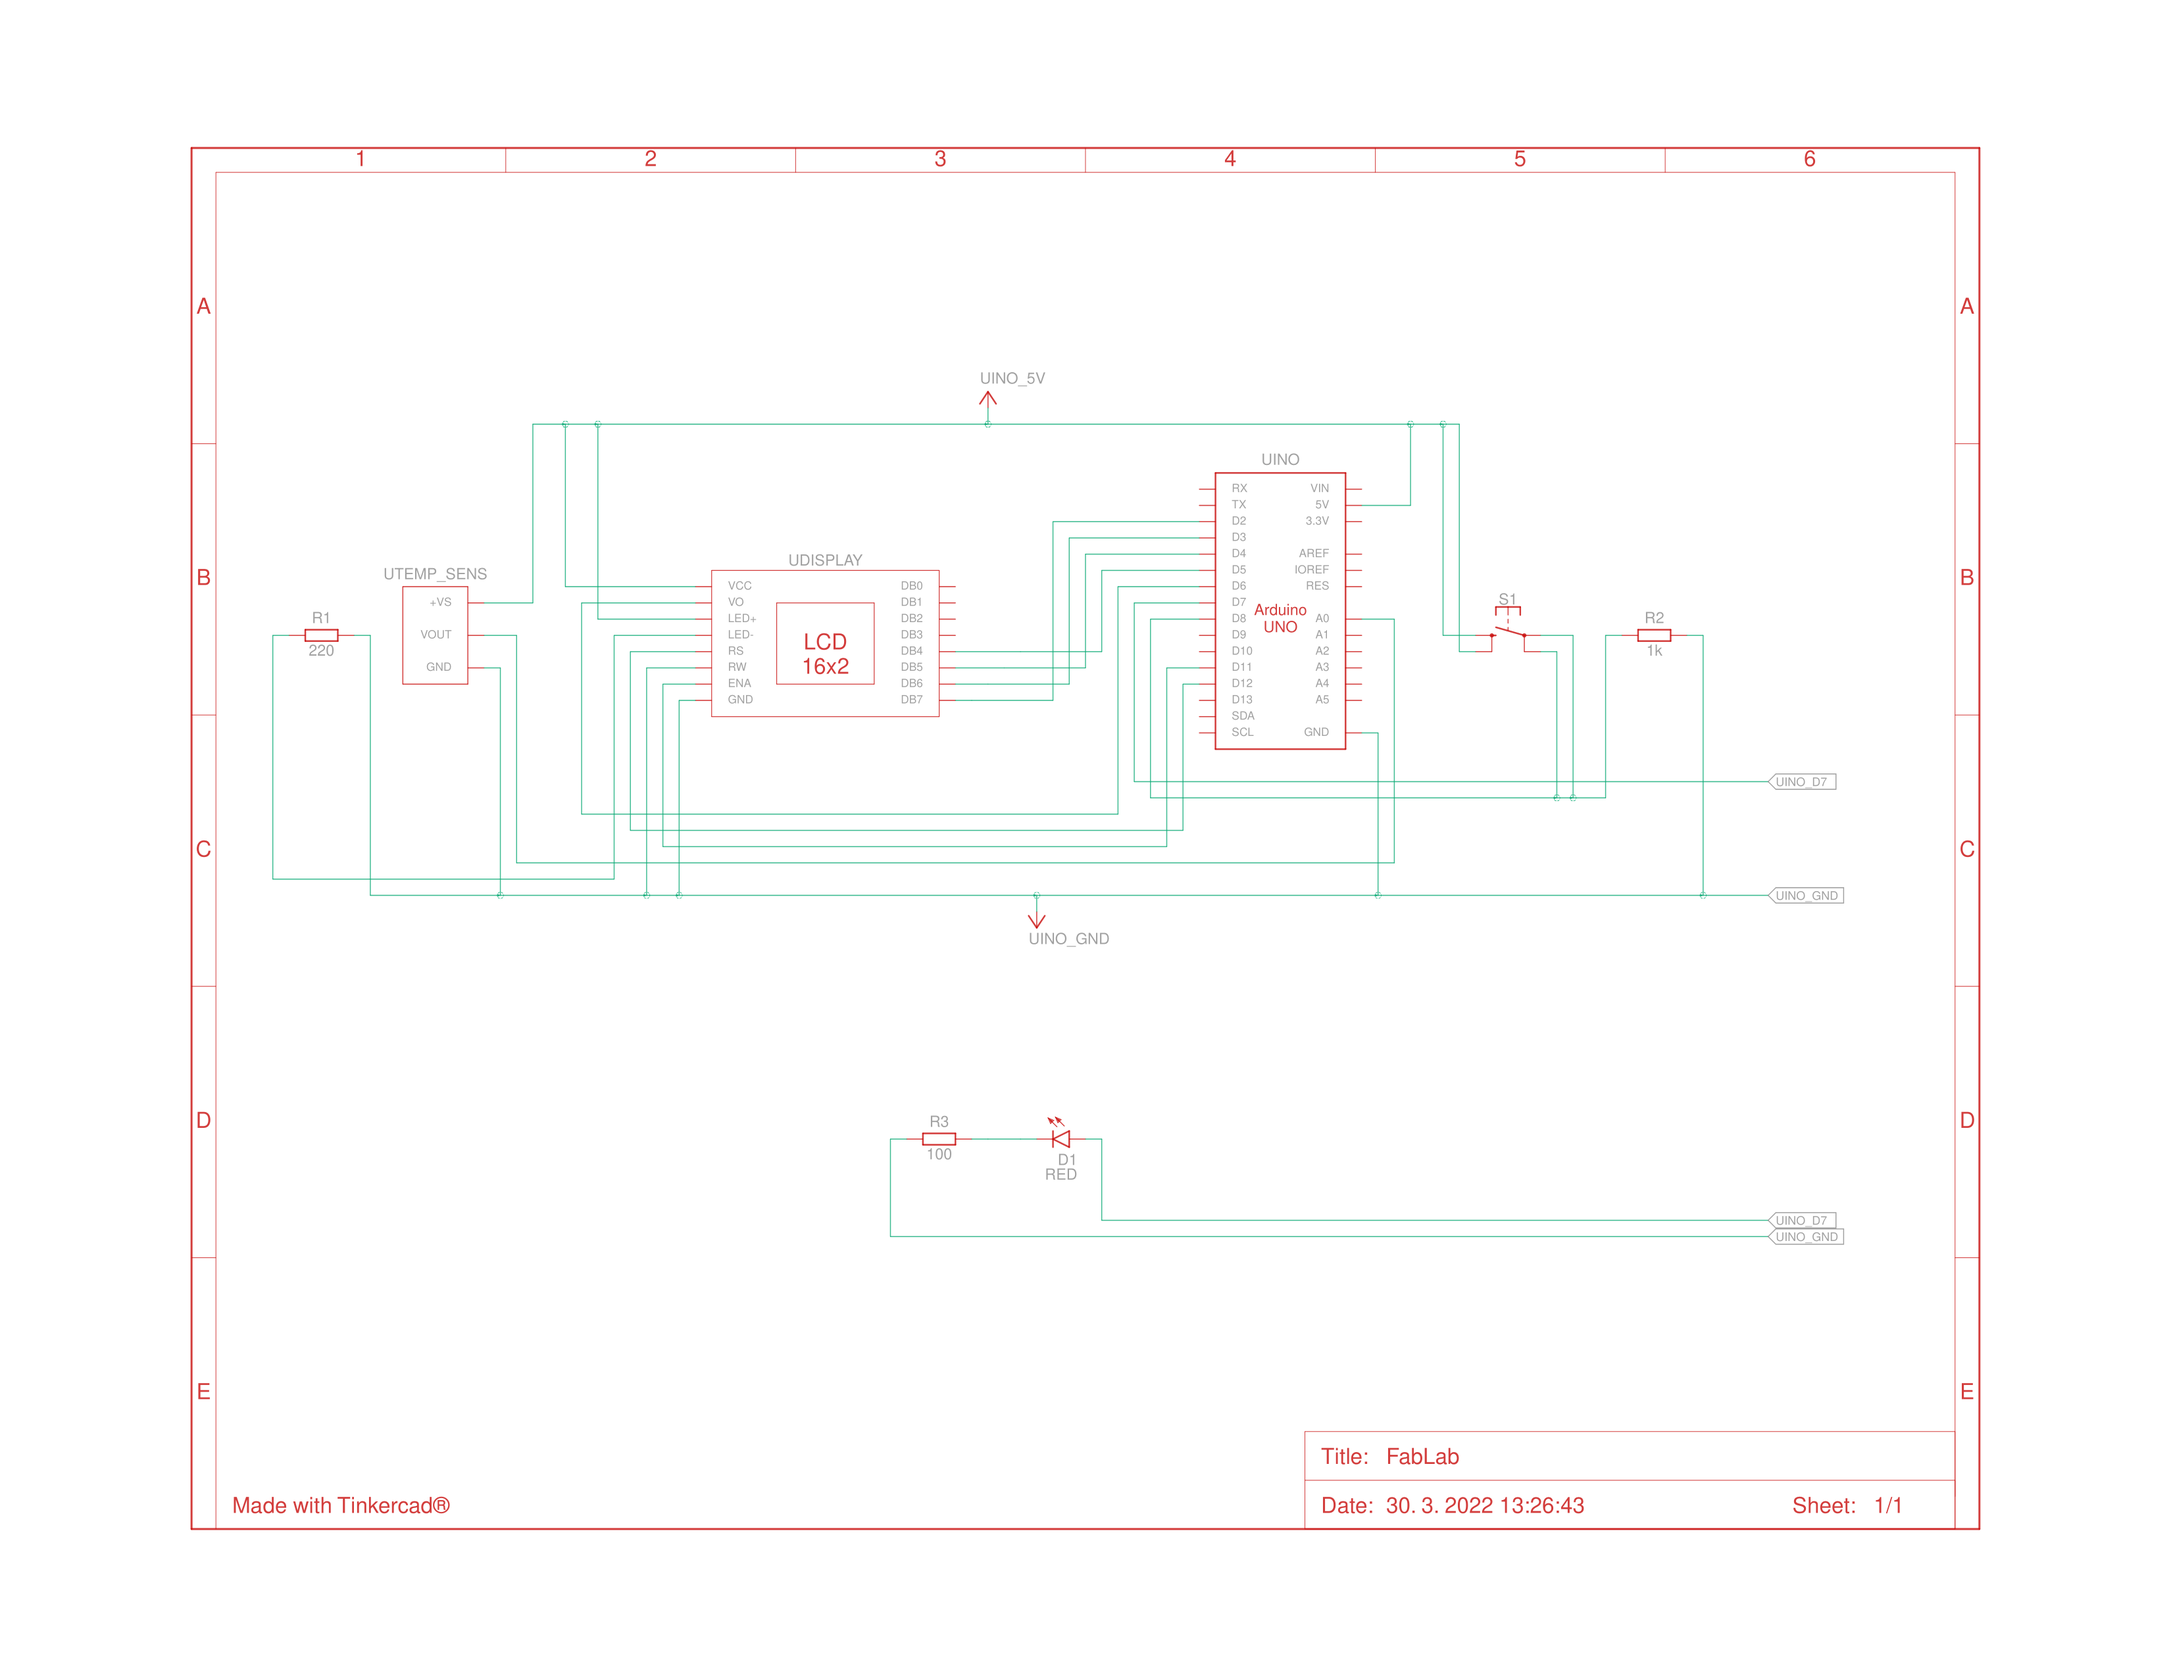
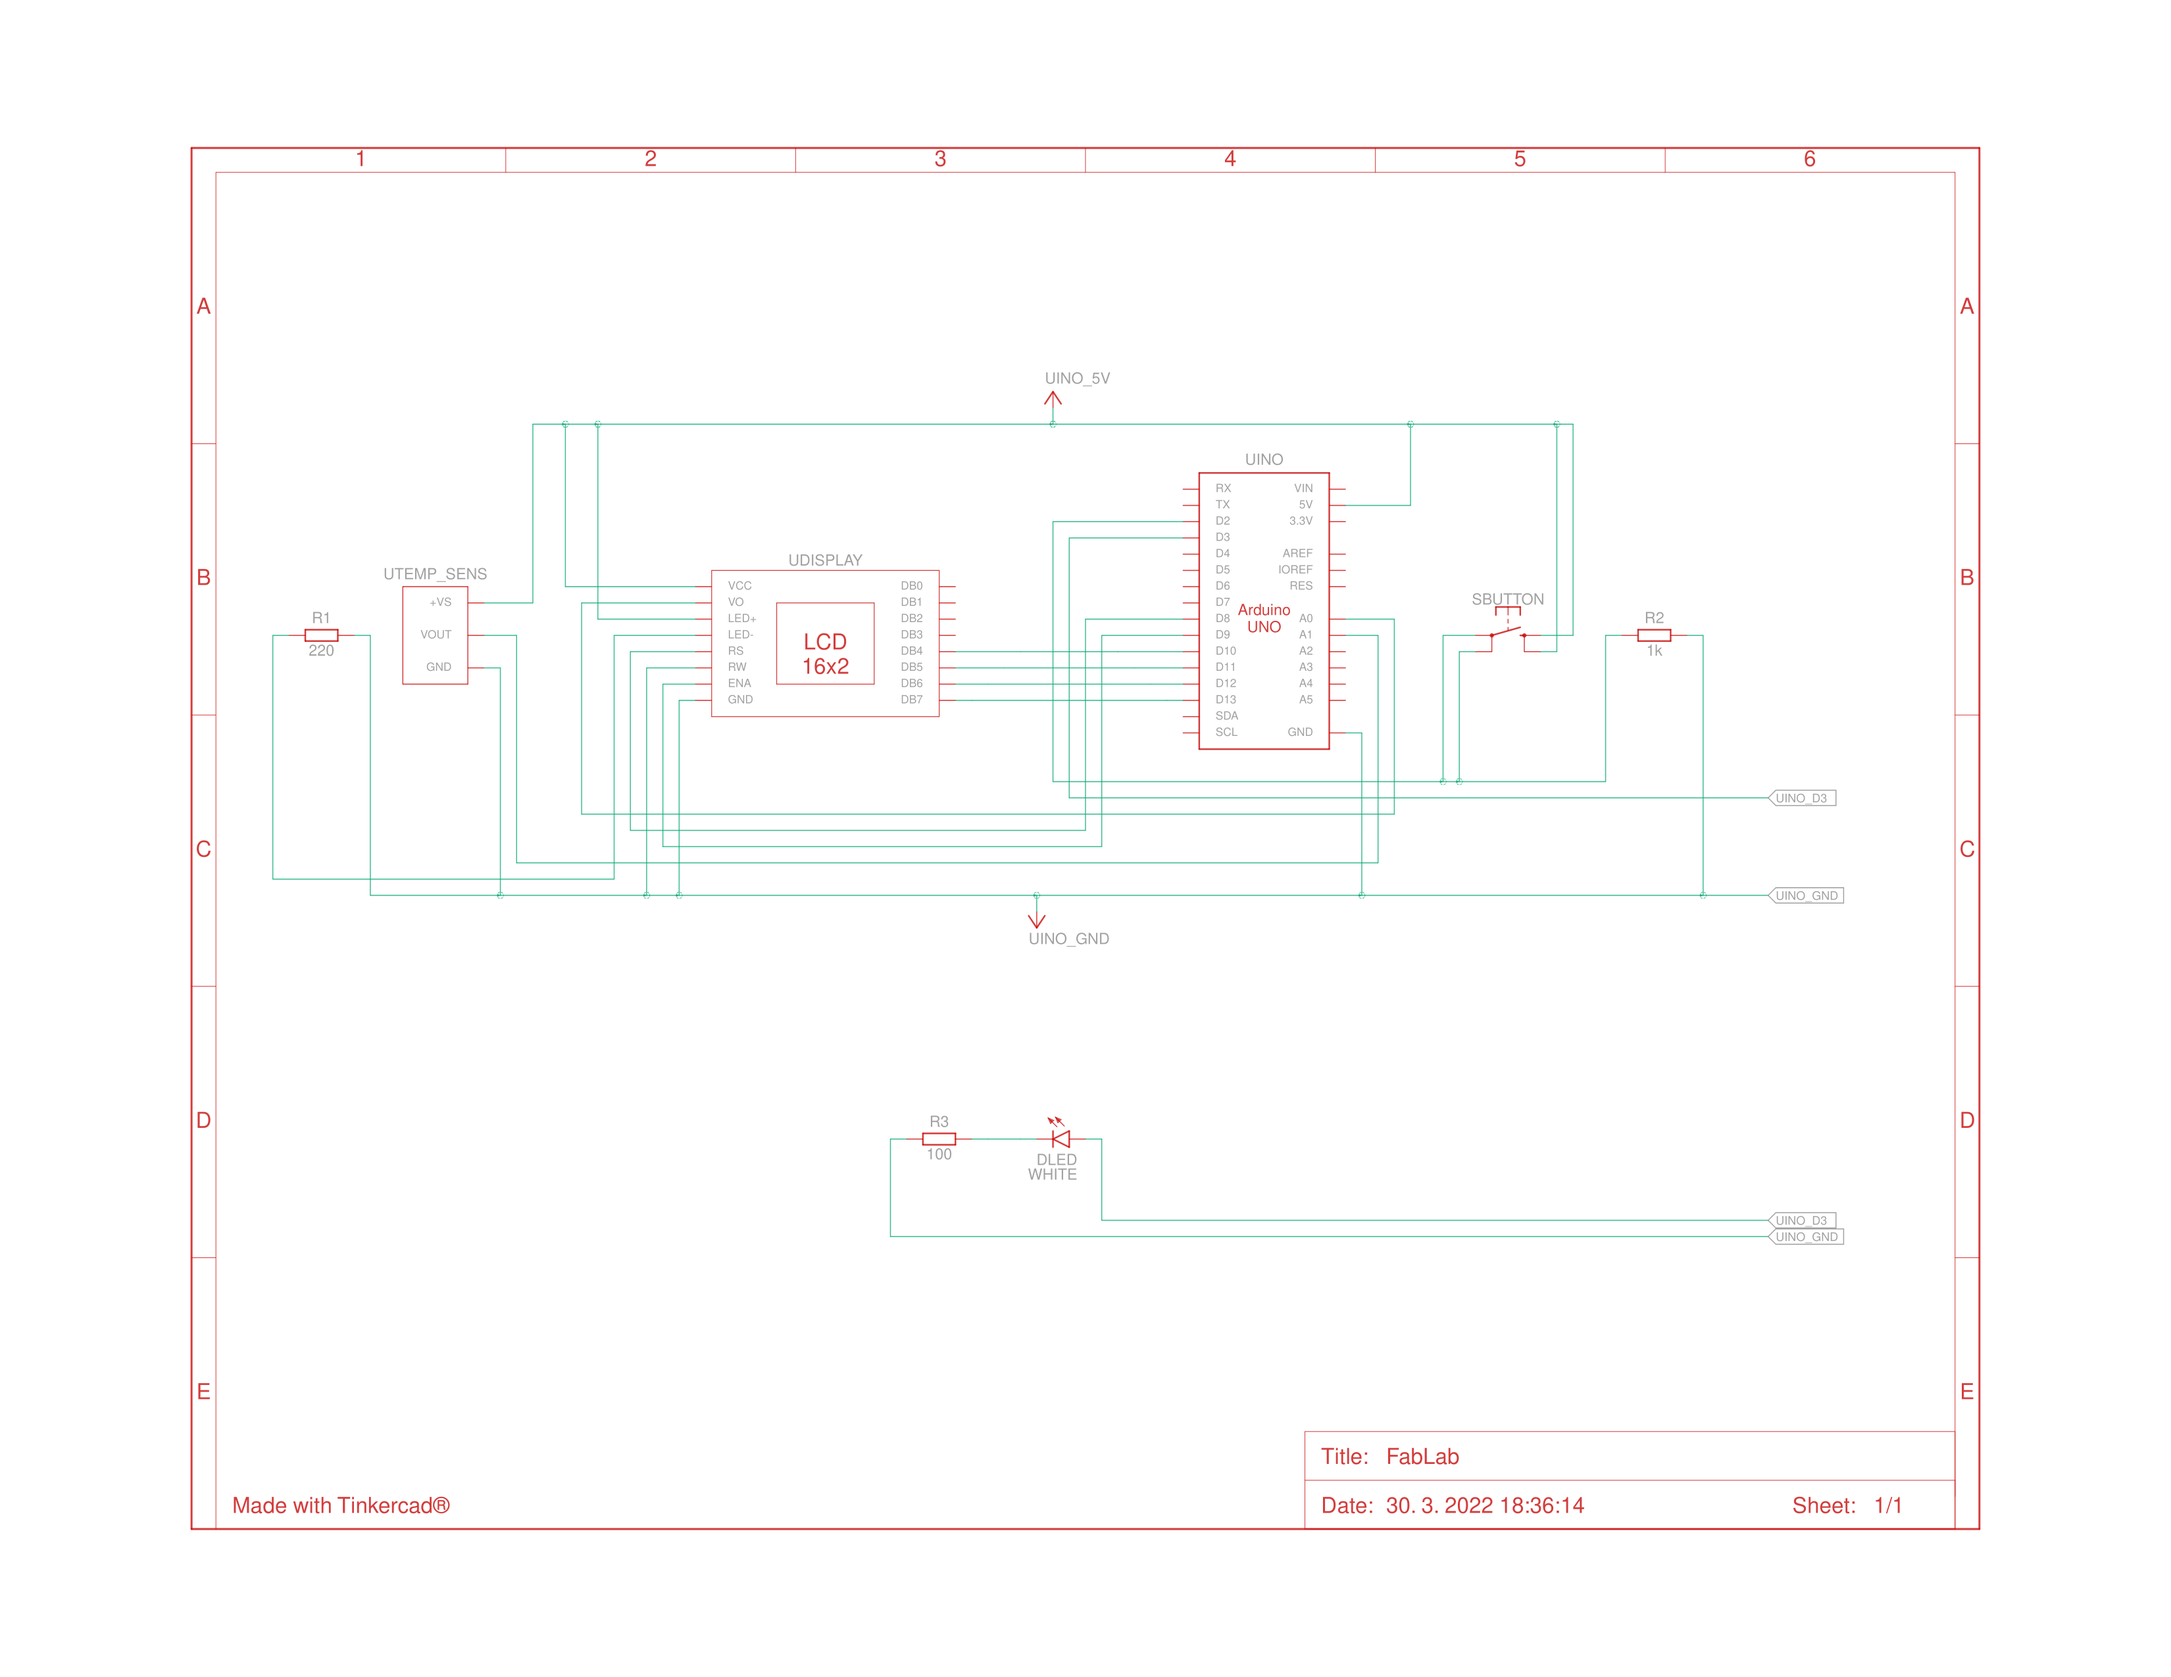
Added time/date switch, moved values as #define constants, re-made whole circuit design

diff --git a/arduino_code.cpp b/arduino_code.cpp
@@ -1,27 +1,33 @@
 #include <LiquidCrystal.h>
 
 //
-// DEFINING
+// DEFINING CONSTANTS
 //
 
 #define LCD_SIZE 16
-#define SCROLL_TEXT_SPEED 100
+#define SCROLL_TEXT_SPEED 50
+#define TIME_DATE_SWITCH_DELAY 5000
+//PINS
+#define BUTTON_READ 2
+#define BUTTON_OUTPUT 3
+#define TEMP_INPUT_PIN A1
+#define CONTRAST_OUTPUT A0
 
 //
 // LCD UTILS
 //
 
-LiquidCrystal lcd(12, 11, 5, 4, 3, 2);
+LiquidCrystal lcd(8, 9, 10, 11, 12, 13);
 
 byte degree[] = {
-  B11100,
-  B10100,
-  B11100,
+  B01110,
+  B01010,
+  B01110,
   B00000,
-  B00011,
-  B00100,
-  B00100,
-  B00011
+  B00000,
+  B00000,
+  B00000,
+  B00000
 };
 
 //
@@ -29,13 +35,15 @@ byte degree[] = {
 //
 
 void setup(){
-  pinMode(7,OUTPUT);
-  pinMode(8,INPUT);
-  analogWrite(6,0);
-  analogWrite(A1,255);
+  pinMode(TEMP_INPUT_PIN,INPUT);
+  pinMode(CONTRAST_OUTPUT,OUTPUT);
+  pinMode(BUTTON_OUTPUT, OUTPUT);
+  pinMode(BUTTON_READ, INPUT);
+  
+  analogWrite(CONTRAST_OUTPUT,0);
   lcd.createChar(0, degree);
   lcd.begin(16, 2);
-  Serial.begin(9600);
+//  Serial.begin(9600);
 }
 
 //
@@ -43,9 +51,12 @@ void setup(){
 //
 
 void loop(){
+  bool pressed = false;
+  bool switched = false;
+  
   writeFadedText(0,"www.vassboskovice.cz");
   writeTimeDate(0,1);
-  writeTemp(13,1);
+  writeTemp(12,1);
   handleButton();
 }
 
@@ -57,18 +68,13 @@ bool pressed = false;
 bool switched = false;
 
 void handleButton(){
-  int btn = digitalRead(8);
-  Serial.println(btn);
+  int btn = digitalRead(BUTTON_READ);
   if (btn == 1 && !pressed){
     pressed = true;
-    switchLED();
+    switched = !switched;
+  	digitalWrite(BUTTON_OUTPUT,switched);
   }
   else if (btn == 0 && pressed) pressed = false;
-}
-
-void switchLED(){
-  switched = !switched;
-  digitalWrite(7,switched);
 }
 
 //
@@ -82,26 +88,34 @@ void writeTemp(int x,int y){
   lcd.setCursor(x,y);
   lcd.print((String(temp).length() == 1 ? " " : "")+String(temp));
   lcd.write(byte(0));
+  lcd.print("C");
 }
 
 int trackTemp(){
-  return (int) map(analogRead(A0),20,358,-40,125);
+  return (int) map(analogRead(TEMP_INPUT_PIN),20,358,-40,125);
 }
 
 //
 // DATE
 //
 
+long dt_switch = 0;
+bool date_or_time = false;
+
 void writeTimeDate(int x, int y){
+  if (millis() > dt_switch+TIME_DATE_SWITCH_DELAY){
+    dt_switch = millis();
+    date_or_time = !date_or_time;
+  }
   lcd.setCursor(x,y);
-  lcd.print("30.03.12:05");
+  lcd.print(date_or_time ? "30.03." : "19:00 ");
 }
 
 //
 // FADED TEXT
 //
 
-float lastChanged = 0;
+long lastChanged = 0;
 int pr = 0;
 
 void writeFadedText(int y,String text){
